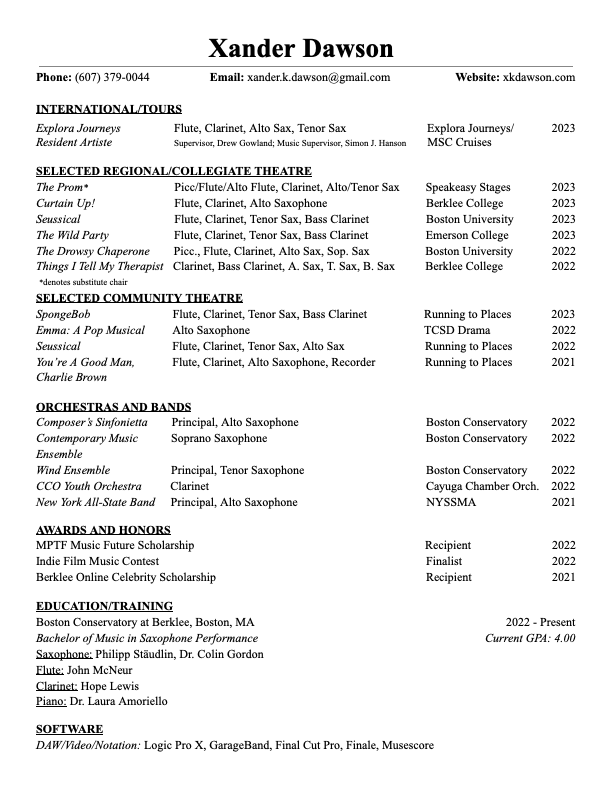
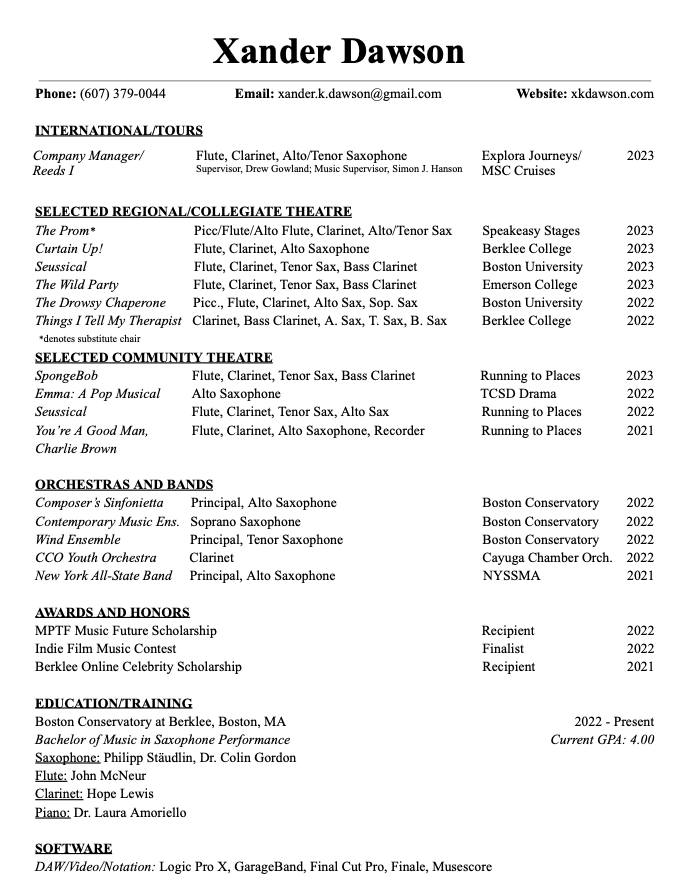
website updates

diff --git a/_includes/assets/css/inline.css b/_includes/assets/css/inline.css
@@ -7,7 +7,9 @@
   --title-font: "Poiret One", serif;
   --font-primary: "EB Garamond", serif;
   --font-heading: "Poiret One", serif;
-  --accent-color: hsl(11deg 80% 31%);
+  --accent-color: rgb(0 6 28);
+  --header-footer-accent-color: rgb(0 6 28 / 70%);
+  --link-color: #0523d2;
 }
 
 *,
@@ -50,7 +52,7 @@ body {
 }
 
 a {
-  color: var(--accent-color);
+  color: var(--link-color);
   text-decoration: none;
 }
 
@@ -223,7 +225,7 @@ footer {
   background-image: linear-gradient(
       to bottom,
       rgb(255 255 255 / 100%),
-      rgb(250 196 196 / 71%)
+      var(--header-footer-accent-color)
     ),
     url(/static/img/sax_schematic.jpg);
   background-size: cover;

diff --git a/pages/welcome.md b/pages/welcome.md
@@ -8,18 +8,16 @@ eleventyNavigation:
 ---
 
 <section class="section">
-    {% containerImage "nyssma-all-state.jpg" %}
+    {% containerImage "billy_joel_set.jpg" %}
     <article class="content">
 
 ## Xander Dawson
 
 ### Saxophonist | Woodwind Doubler | Arranger
 
-{% imageRt "tenor_sax.jpg", "" %}
+{% image "tenor_explora.jpg", "Photo Credit: Kanstantsin Karatysheuski" %}
 
-Xander Dawson is a saxophonist and woodwind doubler currently based in Boston. Originally from upstate New York, he has played in numerous productions ranging from educational theatre to professional regional productions. His experience includes performing as the principal saxophonist in the New York All-State Music Festival in 2021 at the Eastman Theatre in Rochester, New York. He currently plays woodwinds _(flute/clarinet/alto sax/tenor sax)_ on [Explora I](https://explorajourneys.com/us/en/ships), the first ship in the [Explora Journeys](https://explorajourneys.com/) fleet. You can follow Xander's current journey on:
-
-<ul class="l-grid social-grid">
+<!-- <ul class="l-grid social-grid">
 
   <li>
     <a href="https://www.instagram.com/xkdawson1">
@@ -54,12 +52,24 @@ Xander Dawson is a saxophonist and woodwind doubler currently based in Boston. O
     </a>
   </li>
 
-</ul>
+</ul> -->
+
+Xander Dawson is a saxophonist and woodwind doubler based in Boston, Massachusetts. He started playing saxophone at age ten and instantly fell in love with the instrument. He has performed as a woodwind doubler in many venues, from concert halls to the high seas. Most recently, he held the reed chair _(flute/clarinet/alto sax/tenor sax)_ and was the company manager aboard [Explora I](https://explorajourneys.com/us/en/ships), the first ship in the [Explora Journeys](https://explorajourneys.com/) fleet. He also served as the principal saxophonist in the New York All-State Band at Eastman’s Kodak Theatre in 2021.
 
 As a freelance woodwind doubler, he has worked with multiple theatre companies, including [Speakeasy Stage Company](https://speakeasystage.com/), [Boston University on Broadway](http://bostonuniversityonbroadway.com/), [Emerson College](https://emerson.edu/), [Berklee College of Music](https://www.berklee.edu/), and [Running to Places Theatre Company](https://www.runningtoplaces.org/). He also holds a chair with the [Berklee Broadway Band](https://www.instagram.com/the_broadway_band) as a multiple woodwind performer.
 
-His most notable recognitions include being a finalist in the [Indie Film Music Contest](https://indiefilmmusiccontest.com/previous-competitions/) on the short film [Next Flight Home](https://www.youtube.com/watch?v=jfeoLomVH_M). He was also a recipient of the Berklee Online Celebrity Scholarship where he holds an [Advanced Professional Certificate in Music Theory, Harmony, and Ear Training](https://online.berklee.edu/certificates/theory-harmony-ear-training-advanced-professional). In 2022, he was awarded a national scholarship from the [Music Performance Trust Fund](https://musicpf.org/).
+His most notable recognitions include being a finalist in the [Indie Film Music Contest](https://indiefilmmusiccontest.com/previous-competitions/) on the short film [Next Flight Home](https://www.youtube.com/watch?v=jfeoLomVH_M). In 2022, he was awarded a national scholarship from the [Music Performance Trust Fund](https://musicpf.org/). He also received the Berklee Online Celebrity Scholarship, where he holds an [Advanced Professional Certificate in Music Theory, Harmony, and Ear Training](https://online.berklee.edu/certificates/theory-harmony-ear-training-advanced-professional).
 
-Xander is studying saxophone performance at the Boston Conservatory at Berklee where he studies under renowned saxophonist [Philipp Stäudlin](https://bostonconservatory.berklee.edu/directory/philipp-st%C3%A4udlin). Xander is available as a freelance music copyist and transcriber. He has worked as a copyist with the Berklee Musical Theatre Club, The Broadway Band, and for Stan Stewart's jazz album, [Put the Q in Jazz](https://muz4now.com/2022/jazz-quintet-release-put-the-q-in-jazz/). He is also available as a session musician, composer/arranger, and woodwind doubler. Please don’t hesitate to [get in touch for any inquiries](/contact/).
+Xander is pursuing a degree in saxophone performance at the Boston Conservatory at Berklee, where he studies under renowned saxophonist [Philipp Stäudlin](https://bostonconservatory.berklee.edu/directory/philipp-st%C3%A4udlin). Xander is available as a session musician, composer/arranger/copyist, and woodwind doubler. Please don’t hesitate to [get in touch for any inquiries](/contact/).
 
 <blockquote><i>“The sax playing is the stand-out on this track, balanced pushy harsh notes along with the most delicate of touches. The sax soars away with the melody in a raspy, improvised, tonal reflection of the original theme, almost delicate in its note placement. A gorgeous sax-led section adds variation and reflection.”</i><br />— Sammy Stein, <i>United Kingdom</i>, Jazz Views Reviews</blockquote>
+
+<div class="video-grid" style="max-width: 700px; margin: 0 auto; margin-top: 1em">
+  <div class="video">
+    <h3>Woodwind Pit Reel</h3>
+    <iframe width="100%" height="400" src="https://www.youtube.com/embed/gQe_N0Sf8fg" frameborder="0" allow="accelerometer; autoplay; clipboard-write; encrypted-media; gyroscope; picture-in-picture" allowfullscreen></iframe>
+  </div>
+</div>
+
+<p style="text-align: center"><a href="https://www.youtube.com/channel/UCPfyuV99V6vOAUSYS7VrwZw" class="button">View My YouTube Channel</a>
+</p>

diff --git a/pages/music.md b/pages/music.md
@@ -1,67 +1,23 @@
 ---
-title: Instruments / Listen
+title: Listen
 metaDescription: I started my musical journey at age 5 when I started to play the piano! I play piano, saxophone, clarinet, and flute, and sing.
 permalink: /listen/
 usesGallery: true
 eleventyNavigation:
-  key: Instruments / Listen
+  key: Listen
   order: 1
 ---
 
 <section class="section">
-    {% containerImage "practicing_sax.jpg" %}
+    {% containerImage "flute_explora.jpg" %}
     <article class="content">
 
-## Instruments
+## Listen
 
 {% include saxophone.md %}
 {% include clarinet.md %}
 {% include flute.md %}
 {% include piano.md %}
-
-  </article>
-</section>
-
-<section class="section">
-    {% containerImage "quartet.jpg" %}
-    <article class="content">
-
-## Listen
-
-### Woodwind Pit Reel
-
-<div class="video-grid" style="max-width: 700px; margin: 0 auto; margin-top: 1em">
-  <div class="video">
-    <h3>Woodwind Pit Reel</h3>
-    <iframe width="100%" height="400" src="https://www.youtube.com/embed/gQe_N0Sf8fg" frameborder="0" allow="accelerometer; autoplay; clipboard-write; encrypted-media; gyroscope; picture-in-picture" allowfullscreen></iframe>
-  </div>
-</div>
-
-### Woodwind Arrangements
-
-I love writing original music and arrangements. Here are a few of my featured pieces:
-
-<div class="video-grid">
-  <div class="video">
-    <h3>Disney Villains Medley</h3>
-    <iframe width="100%" height="200" src="https://www.youtube.com/embed/fEtENeMrq6E" frameborder="0" allow="accelerometer; autoplay; clipboard-write; encrypted-media; gyroscope; picture-in-picture" allowfullscreen></iframe>
-    <p>This piece combines three of my favorite Disney villain songs into a fun medley! The three songs featured are “Be Prepared”, “Friends on the Other Side”, and “Poor Unfortunate Souls”.</p>
-  </div>
-  <div class="video">
-    <h3>The Great Pumpkin Waltz</h3>
-    <iframe width="100%" height="200" src="https://www.youtube.com/embed/Cbzu8RvuEOE" frameborder="0" allow="accelerometer; autoplay; clipboard-write; encrypted-media; gyroscope; picture-in-picture" allowfullscreen></iframe>
-    <p>This is a cover I wrote of Vince Guaraldi's <i>The Great Pumpkin Waltz</i>. Saxophone, piano, flute, and clarinet performed by Xander Dawson. Drums performed by Nate Wilson.</p>
-  </div>
-  <div class="video">
-    <h3>This is Halloween</h3>
-    <iframe width="100%" height="200" src="https://www.youtube.com/embed/udvq0-gqq0o" frameborder="0" allow="accelerometer; autoplay; clipboard-write; encrypted-media; gyroscope; picture-in-picture" allowfullscreen></iframe>
-    <p>Danny Elfman's "This is Halloween" arranged for alto saxophone quartet.</p>
-  </div>
-</div>
-
-<a href="https://www.youtube.com/channel/UCPfyuV99V6vOAUSYS7VrwZw" class="button">View My YouTube Channel</a>
-
-[View my repertoire list](https://drive.google.com/file/d/1hYkV2u3Ab4W2yReDu_oEb614jQhwk2Hi/view) for a complete list of classical saxophone repertoire.
 
   </article>
 </section>

diff --git a/pages/saxophone.md b/pages/saxophone.md
@@ -7,7 +7,7 @@
   <!-- begin instrument -->
   <div class="gallery-cell">
     <div class="sampleContainer">
-      <div class="sampleMeta" style="background: url(/static/img/tenor_sax.jpg) white top right/cover no-repeat">
+      <div class="sampleMeta" style="background: url(/static/img/sax_closeup.jpg) white top right/cover no-repeat">
         <h3>Alto Saxophone</h3>
       </div>
       <div class="sampleMp3">

diff --git a/pages/contact.md b/pages/contact.md
@@ -9,7 +9,7 @@ eleventyNavigation:
 ---
 
 <section class="section">
-    {% containerImage "contact.jpg" %}
+    {% containerImage "divas_explora.jpg" %}
     <article class="content">
     
 ## Contact Me
